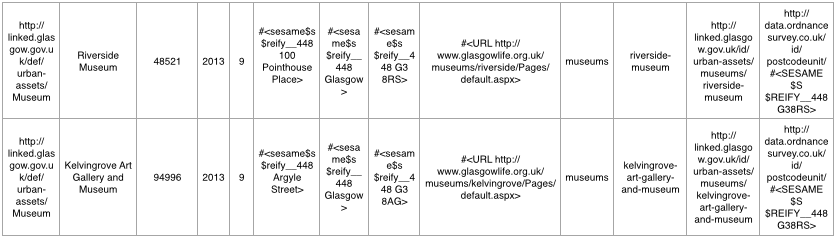
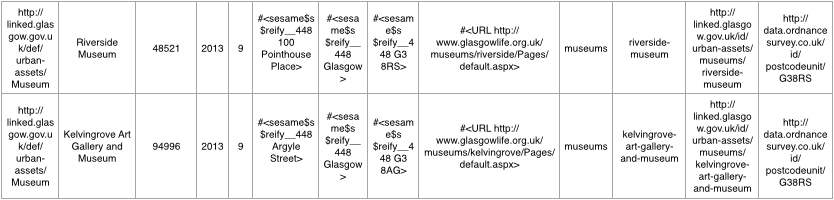
cleaned postcode + started date time

Changed region(s): [[0.0, 0.0, 0.9976, 1.0], [0.4053, 0.87, 0.4365, 0.9], [0.4053, 0.39, 0.4365, 0.42]]

diff --git a/_howto/921_pipeline.md b/_howto/921_pipeline.md
@@ -204,12 +204,6 @@ cmd-line.prefixers=> (uriify-refFacility "museums" "riverside-museum")
 
 ![Swap Screenshot](/assets/921_pipeline_13.png)
 
-{% highlight clojure %}
-
-cmd-line.prefixers=> (uriify-pcode "#<sesame$s$reify__448 G3 8RS>")
-"http://data.ordnancesurvey.co.uk/id/postcodeunit/#<SESAME$S$REIFY__448G38RS>"
-
-{% endhighlight %}
 
 ![Swap Screenshot](/assets/921_pipeline_14.png)
 
